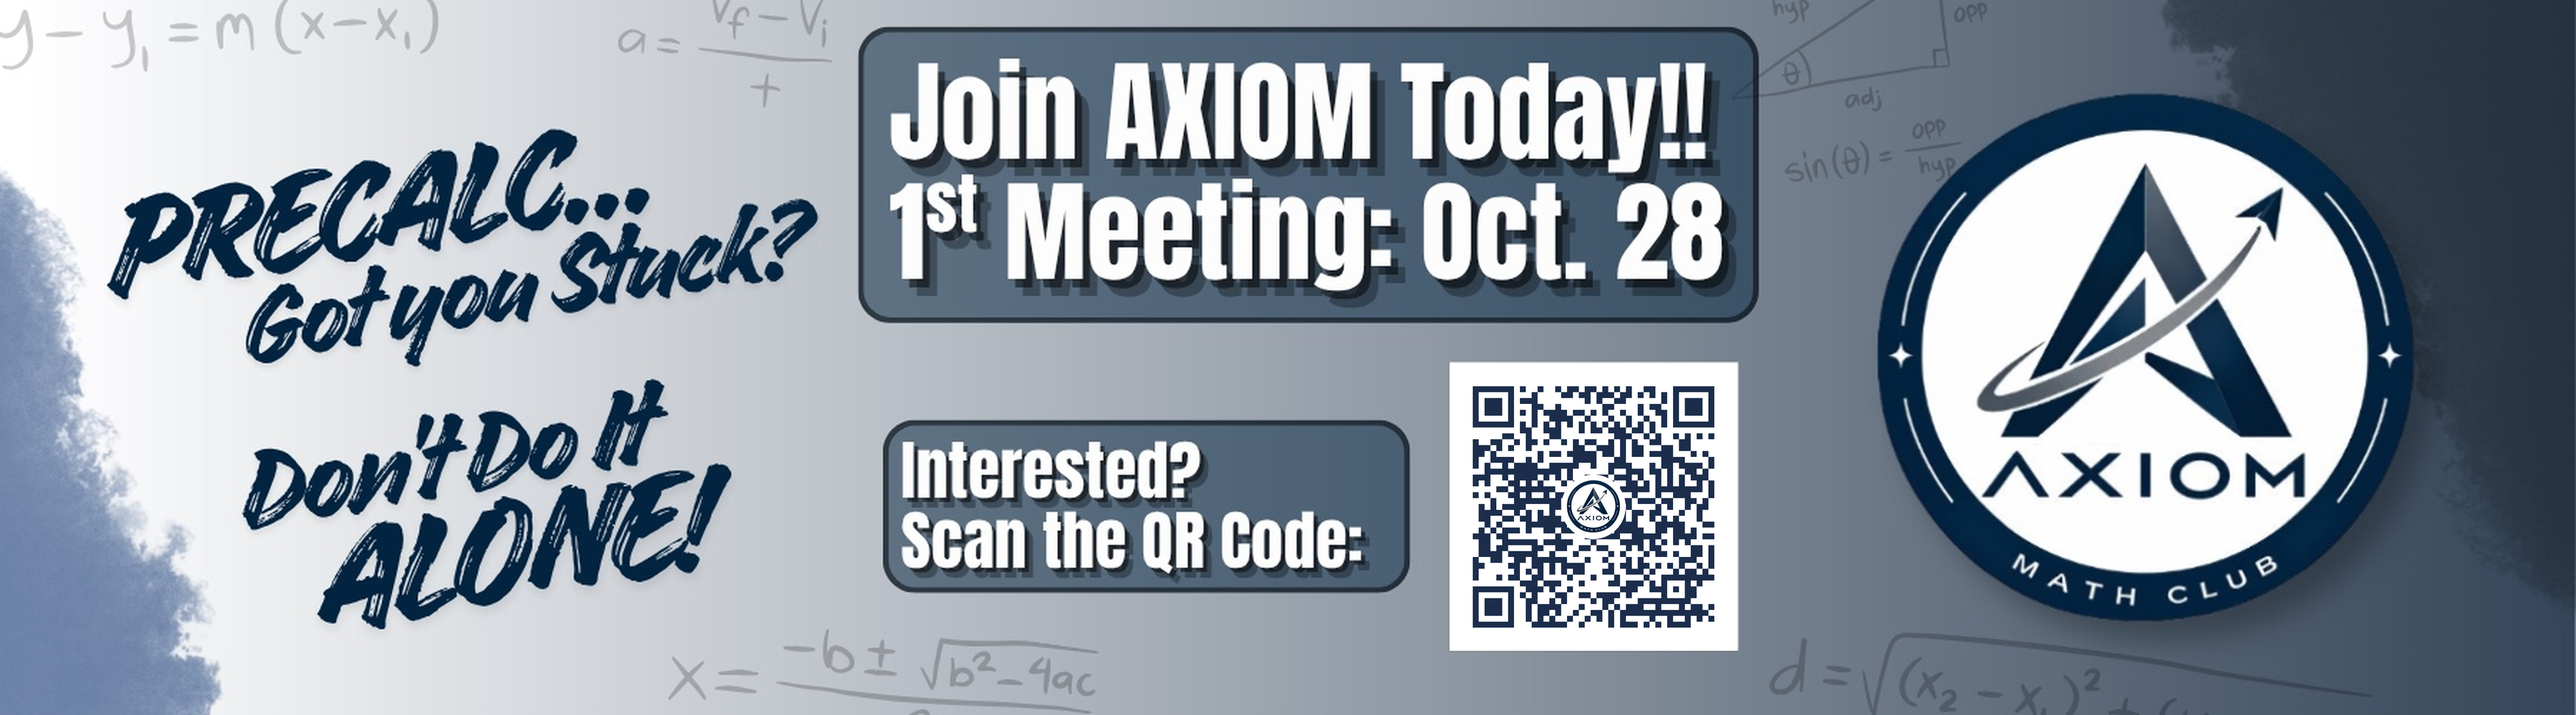
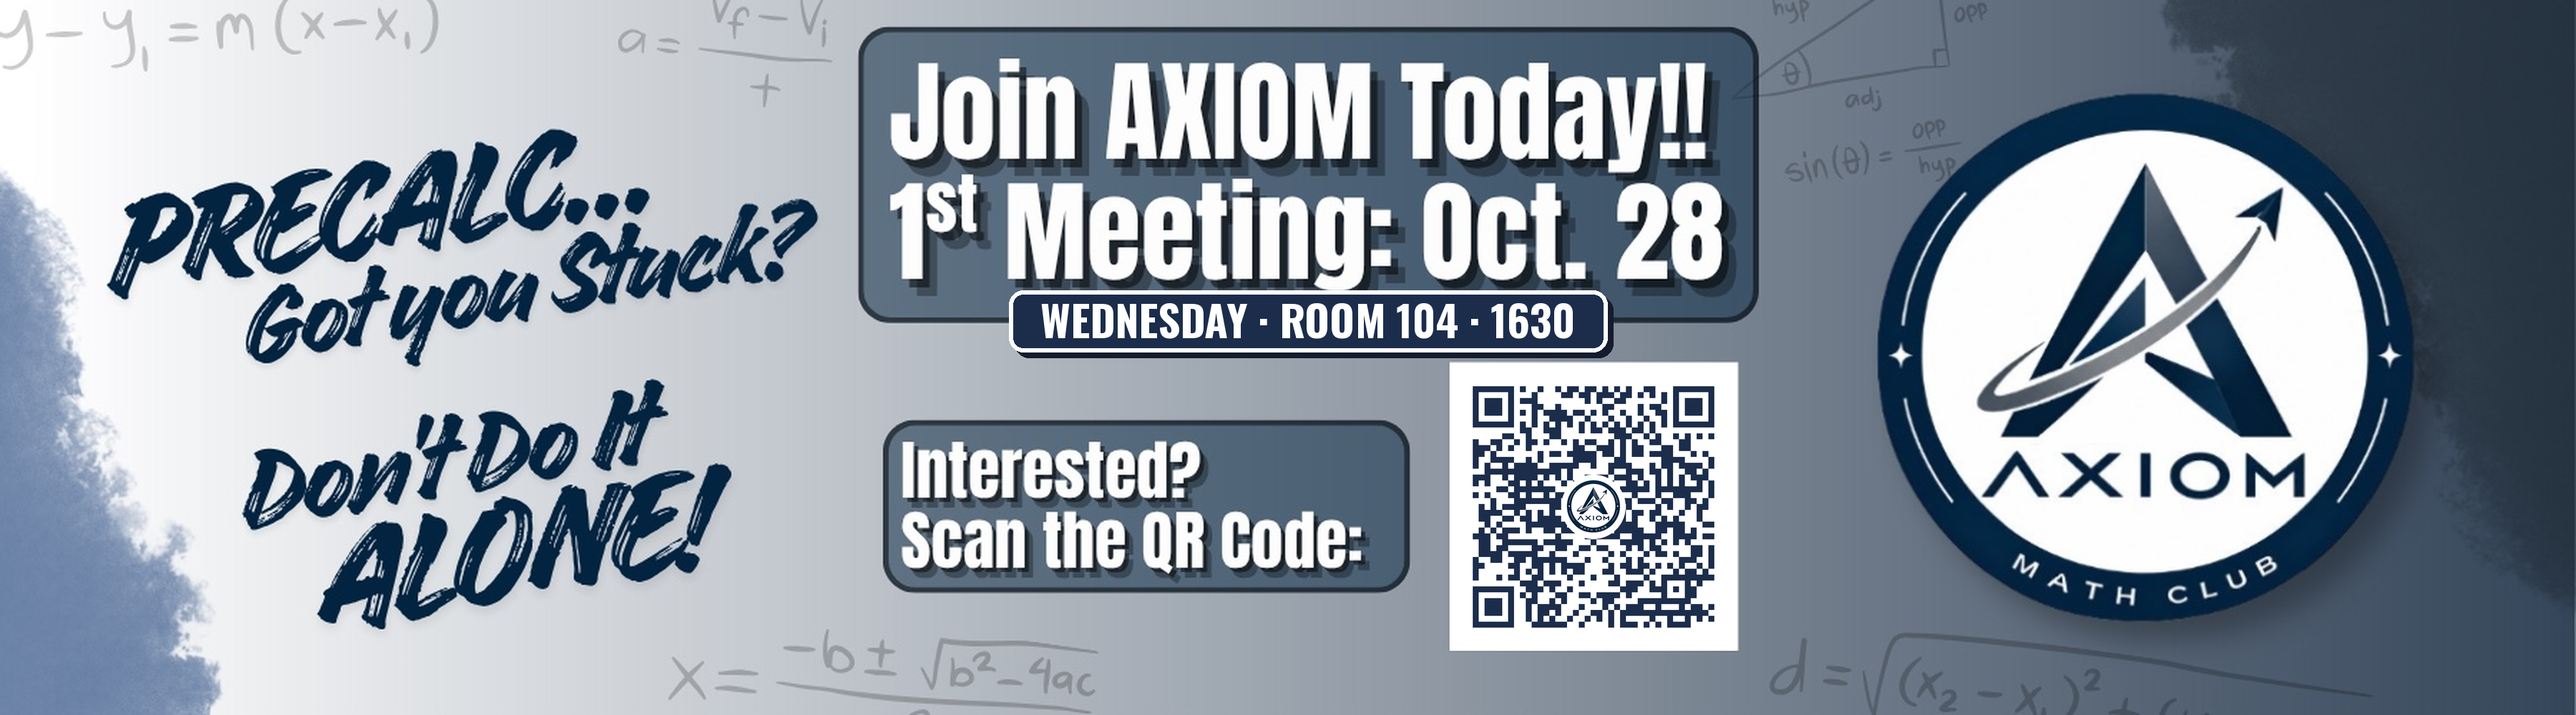
Add meeting time (1630) to site and flyer
Claude-Session: https://claude.ai/code/session_01VdhfcoVPG3qHq4T91bBqhW

Changed region(s): [[0.3733, 0.403, 0.6533, 0.527]]

diff --git a/index.html b/index.html
@@ -53,7 +53,7 @@
         <p class="lede">Book a one-on-one session with an AXIOM tutor. Pick your topic, choose a time when a tutor is free, and you'll get an email as soon as your tutor confirms.</p>
         <div class="hero-actions">
           <a class="btn" href="book.html">Book a session</a>
-          <span class="meeting">1st club meeting: <strong>Wednesday, Oct. 28 · Room 104</strong></span>
+          <span class="meeting">1st club meeting: <strong>Wednesday, Oct. 28 · Room 104 · 1630</strong></span>
         </div>
       </div>
       <img class="hero-logo" src="logo.png" alt="AXIOM Math Club logo" width="388" height="388">

diff --git a/script.js b/script.js
@@ -490,7 +490,7 @@ const DEMO_WEEK = {
   5: [[DEMO_TUTORS[3], "14:00", "17:00"], [DEMO_TUTORS[2], "16:30", "19:30"]],
 };
 const DEMO_EVENTS = [
-  { date: "2026-10-28", start: "", end: "", title: "AXIOM 1st Meeting", location: "Room 104", details: "Our first club meeting. Everyone is welcome." },
+  { date: "2026-10-28", start: "16:30", end: "", title: "AXIOM 1st Meeting", location: "Room 104", details: "Our first club meeting. Everyone is welcome." },
 ];
 function demoBooked() {
   try { return JSON.parse(localStorage.getItem("axiom-demo-bookings") || "[]"); } catch { return []; }

diff --git a/README.md b/README.md
@@ -52,7 +52,7 @@ En la pestaña **Events**, una fila por evento:
 
 | Date | Start | End | Title | Location | Details |
 |---|---|---|---|---|---|
-| 2026-10-28 | | | AXIOM 1st Meeting | Room 104 | Our first club meeting. Everyone is welcome. |
+| 2026-10-28 | 16:30 | | AXIOM 1st Meeting | Room 104 | Our first club meeting. Everyone is welcome. |
 
 Si dejas `Start` vacío, el sitio muestra "Time TBA". El calendario se actualiza al recargar la página.
 
